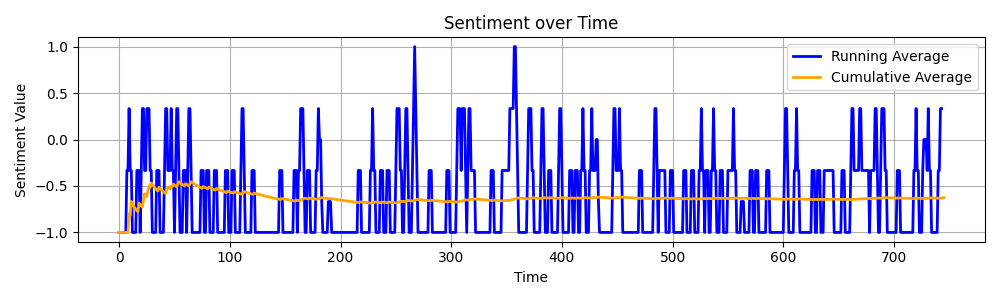
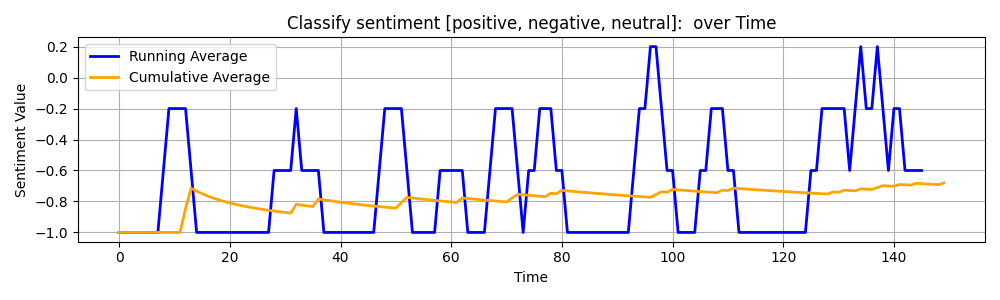
fixed time period for overall sentiment:

diff --git a/README.md b/README.md
@@ -2,11 +2,11 @@
 
 This is a basic exploration of our multi-year DND campaign. We generate basic statistics over our domain as well as sentiment scores using FLAN-T5 LLM (https://huggingface.co/docs/transformers/en/model_doc/flan-t5), a pre-trained open-source language model.
 
-Here are some descriptive statistics of the notes over time (where time is defined as chunks of 100 characters of text in a set of notes taken by a member of our campaign)
+Here are some descriptive statistics of the notes over time (where time is defined as chunks of 100 characters of text in a set of notes taken by a member of our campaign).
 
 ![Project Diagram](fig1.png)
 
-We take advantage of pre-training of FLAN-T5 to do zero-shot classification of broad sentiment [positive, negative, neutral] of the campaign over time (see below).
+We take advantage of pre-training of FLAN-T5 to do zero-shot classification of broad sentiment [positive, negative, neutral] of the campaign over time (see below). Running averages are calculated using a window of 5 chunks, and every other 5 chunks are used for classification (to reduce computation needs)
 
 `"Classify sentiment [positive, negative, neutral]: "`
 
